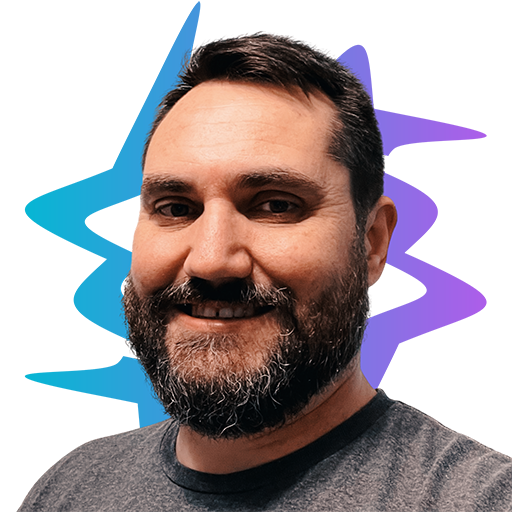
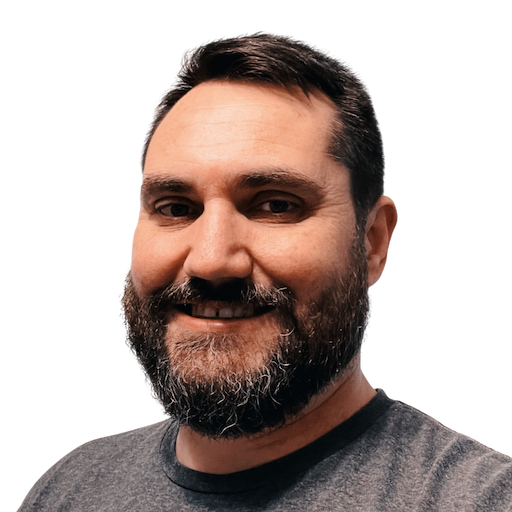
feat(jasonruesch): update About Me with bio from ChatGPT

diff --git a/src/pages/about.tsx b/src/pages/about.tsx
@@ -11,22 +11,31 @@ export const AboutPage = () => {
           About Me
         </h1>
         <p>
-          My name is Jason Ruesch. I am a software engineer, web developer, and
-          designer currently living in Raleigh, NC. I enjoy creating software
-          that not only looks amazing, but is also engaging and easy to use! I
-          have a passion for learning new technologies and building things that
-          are useful to others.
+          Hello, I'm Jason Ruesch, a Senior Frontend Software Engineer with a
+          passion for creating exceptional user experiences. Armed with a
+          Bachelor of Science in Computer Science, I've dedicated my career to
+          the dynamic world of web development, honing my skills in crafting
+          intuitive and visually stunning interfaces.
         </p>
         <p>
-          Outside of work, I like to spend time with my family outdoors, play
-          video games, and watch movies and tv shows. I also spend time tending
-          to my urban farm, which includes chickens, dogs, cats and the constant
-          flow of foster pets!
+          When I'm not immersed in code, I'm often found exploring the virtual
+          realms of video games or catching up on the latest movies and TV
+          shows. My love for technology doesn't end with my profession; I'm
+          always excited to dive into the latest software development
+          technologies, eager to stay at the forefront of this ever-evolving
+          field.
         </p>
         <p>
-          I am always open to connect. If you are interested in learning more
-          about how I can help you with your web development or design needs,
-          please reach out.
+          Beyond my professional pursuits, my family is my anchor, and spending
+          quality time with them is incredibly important to me. Whether it's a
+          weekend adventure or a cozy evening together, their support fuels my
+          drive to excel in both my personal and professional life.
+        </p>
+        <p>
+          Feel free to connect with me to discuss all things frontend
+          development, share recommendations for must-watch shows, or to
+          exchange thoughts on the latest gaming adventures. Let's explore the
+          digital world together!
         </p>
 
         <PageNavLink

diff --git a/src/lib/animations/slide-animations.ts b/src/lib/animations/slide-animations.ts
@@ -1,5 +1,7 @@
 import { PageAnimationVariants, duration } from './animations';
 
+const scale = 0.5;
+
 export const SlidePageAnimationVariants = {
   pageVariants: {
     initial: ({ transparent, slideRight }) => {
@@ -8,7 +10,7 @@ export const SlidePageAnimationVariants = {
         ...(transparent
           ? { y: '-100%' }
           : { x: slideRight ? '-100%' : '100%' }),
-        scale: 0.6,
+        scale,
         width: '100vw',
         height: '100vh',
         maxHeight: '-webkit-fill-available',
@@ -23,7 +25,7 @@ export const SlidePageAnimationVariants = {
     animate: ({ transparent, stageAnimations }) => {
       if (stageAnimations) {
         return {
-          scale: 0.6,
+          scale,
           width: '100vw',
           height: '100vh',
           maxHeight: '-webkit-fill-available',
@@ -82,7 +84,7 @@ export const SlidePageAnimationVariants = {
         ...(transparent
           ? { y: '-100%' }
           : { x: slideRight ? '100%' : '-100%' }),
-        scale: 0.6,
+        scale,
         width: '100vw',
         height: '100vh',
         maxHeight: '-webkit-fill-available',

diff --git a/src/lib/animations/fade-animations.ts b/src/lib/animations/fade-animations.ts
@@ -1,11 +1,13 @@
 import { PageAnimationVariants, duration } from './animations';
 
+const scale = 0.5;
+
 export const FadePageAnimationVariants = {
   pageVariants: {
     initial: ({ transparent }) => {
       return {
         opacity: 0,
-        scale: 0.6,
+        scale,
         width: '100vw',
         height: '100vh',
         maxHeight: '-webkit-fill-available',
@@ -20,7 +22,7 @@ export const FadePageAnimationVariants = {
     animate: ({ transparent, stageAnimations }) => {
       if (stageAnimations) {
         return {
-          scale: 0.6,
+          scale,
           width: '100vw',
           height: '100vh',
           maxHeight: '-webkit-fill-available',
@@ -65,7 +67,7 @@ export const FadePageAnimationVariants = {
     exit: ({ transparent }) => {
       return {
         opacity: 0,
-        scale: 0.6,
+        scale,
         width: '100vw',
         height: '100vh',
         maxHeight: '-webkit-fill-available',

diff --git a/src/components/profile-image.tsx b/src/components/profile-image.tsx
@@ -1,5 +1,5 @@
-import profileImage from '@/assets/jasonruesch-512.png';
 import profileDarkImage from '@/assets/jasonruesch-dark-512.png';
+import profileLightImage from '@/assets/jasonruesch-light-512.png';
 import clsx from 'clsx';
 import { useTheme } from 'next-themes';
 
@@ -23,7 +23,7 @@ export const ProfileImage = ({
       )}
     >
       <img
-        src={resolvedTheme === 'dark' ? profileDarkImage : profileImage}
+        src={resolvedTheme === 'dark' ? profileDarkImage : profileLightImage}
         alt="Jason Ruesch"
       />
     </figure>
